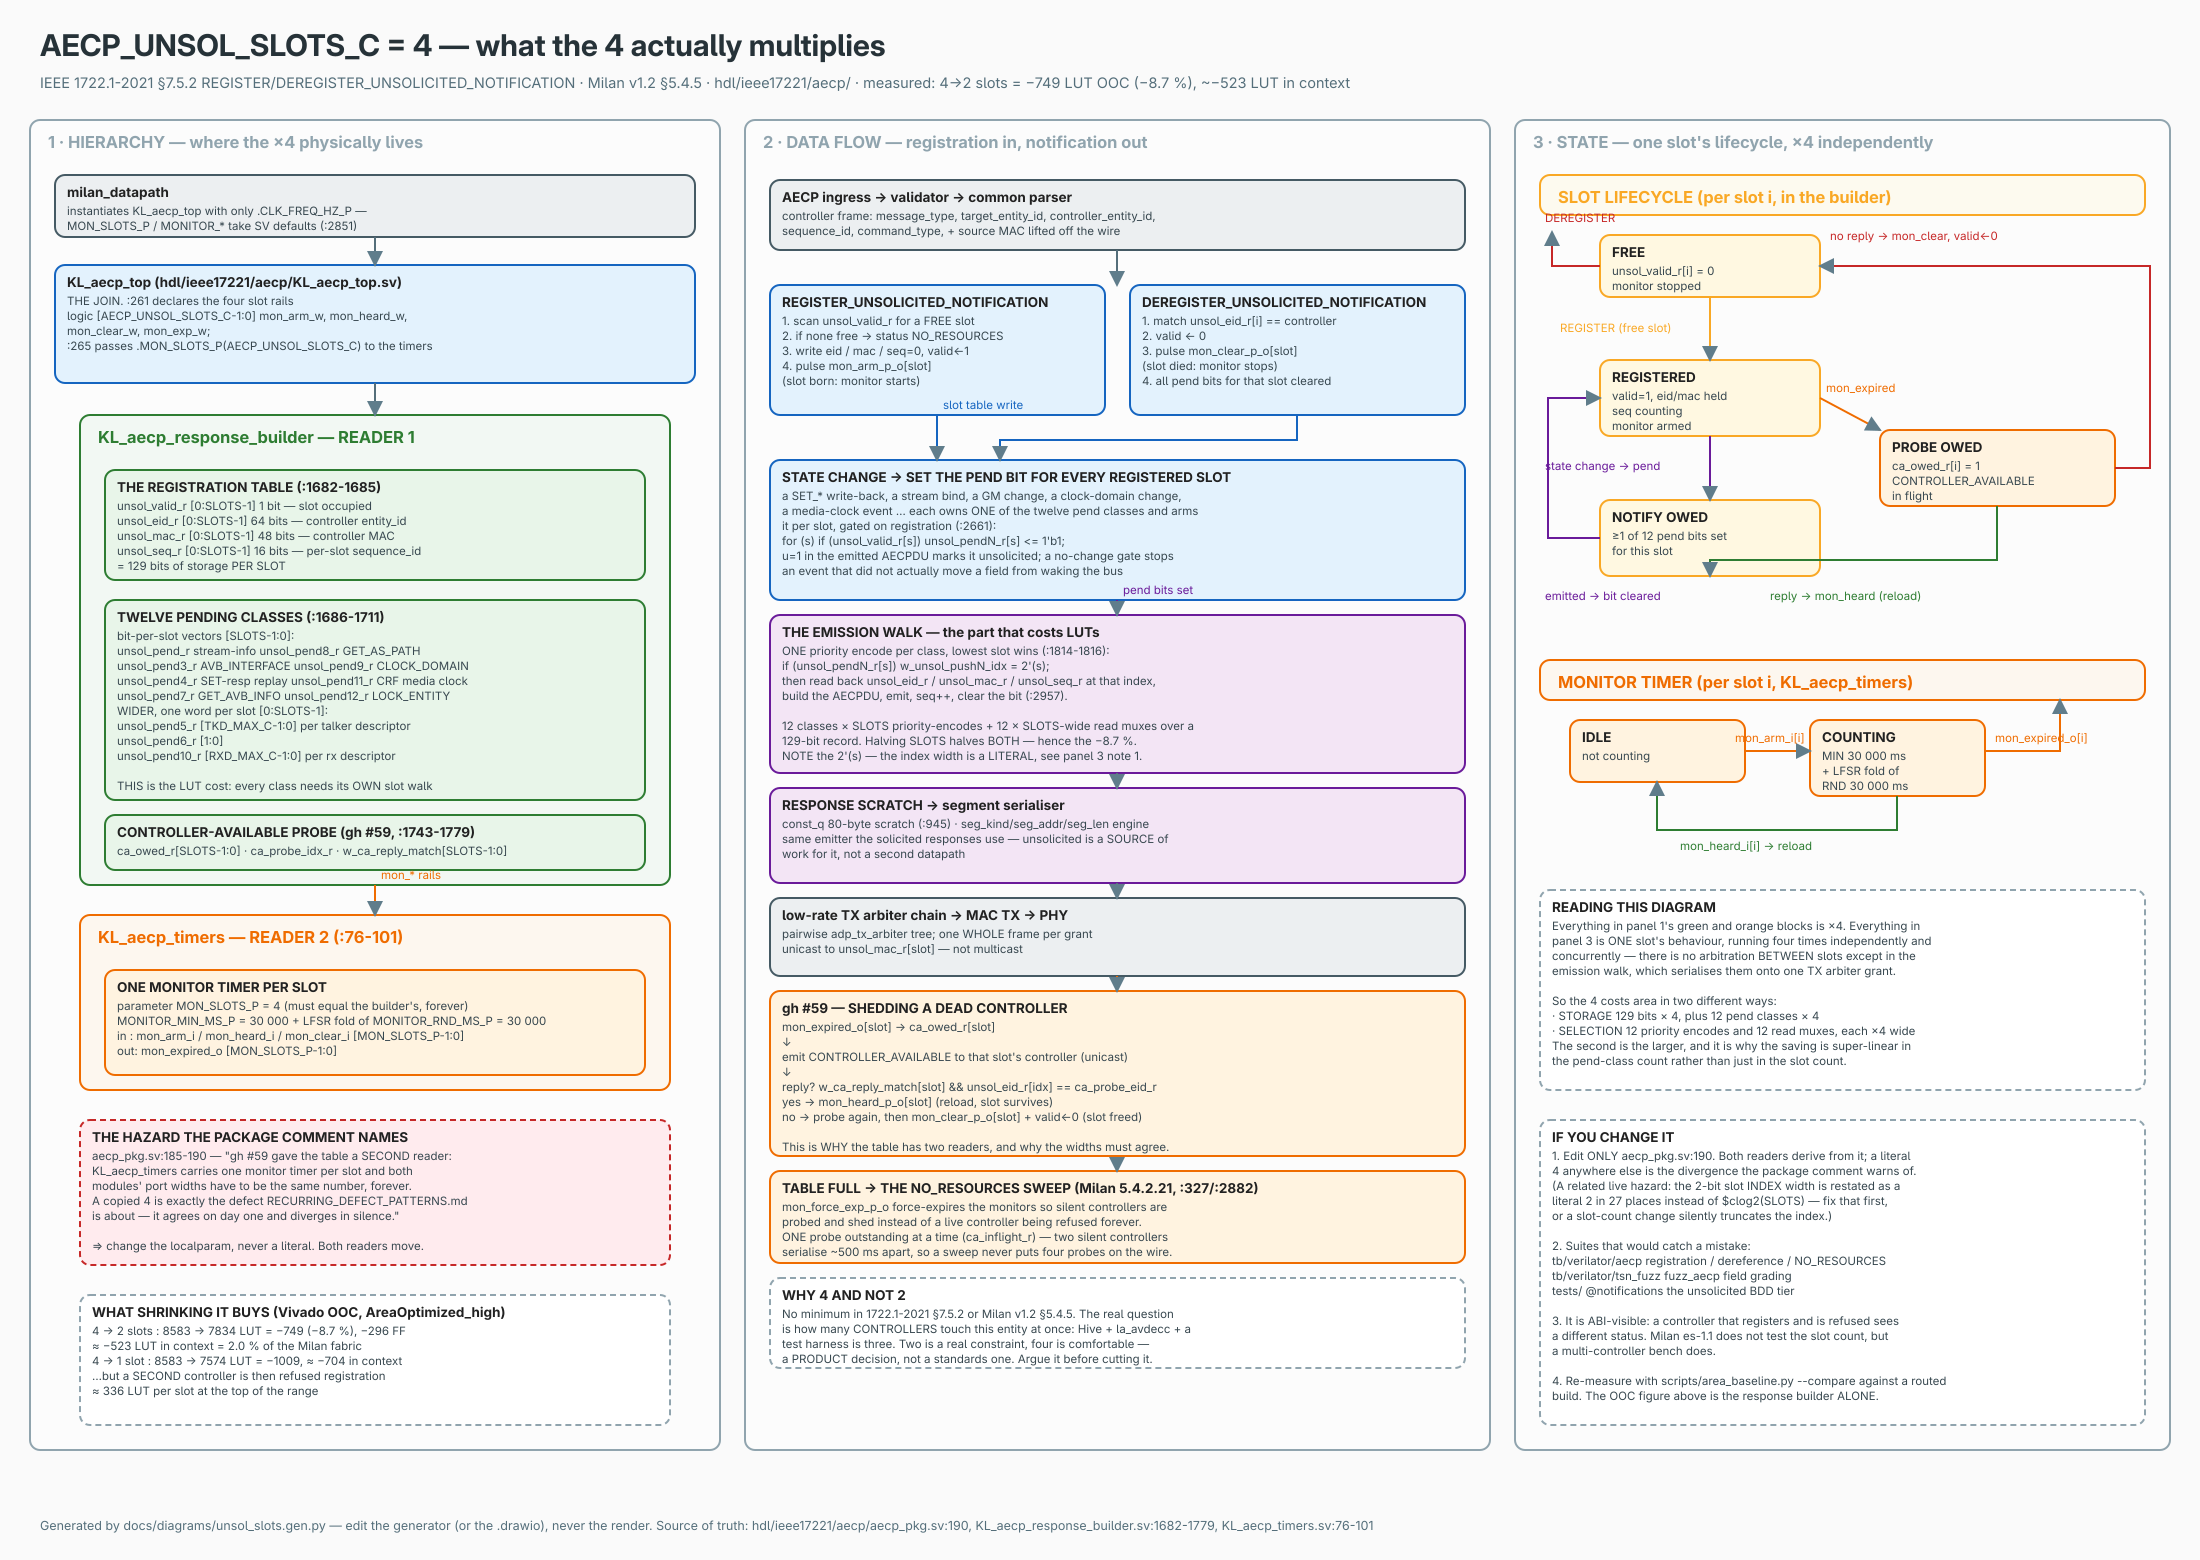
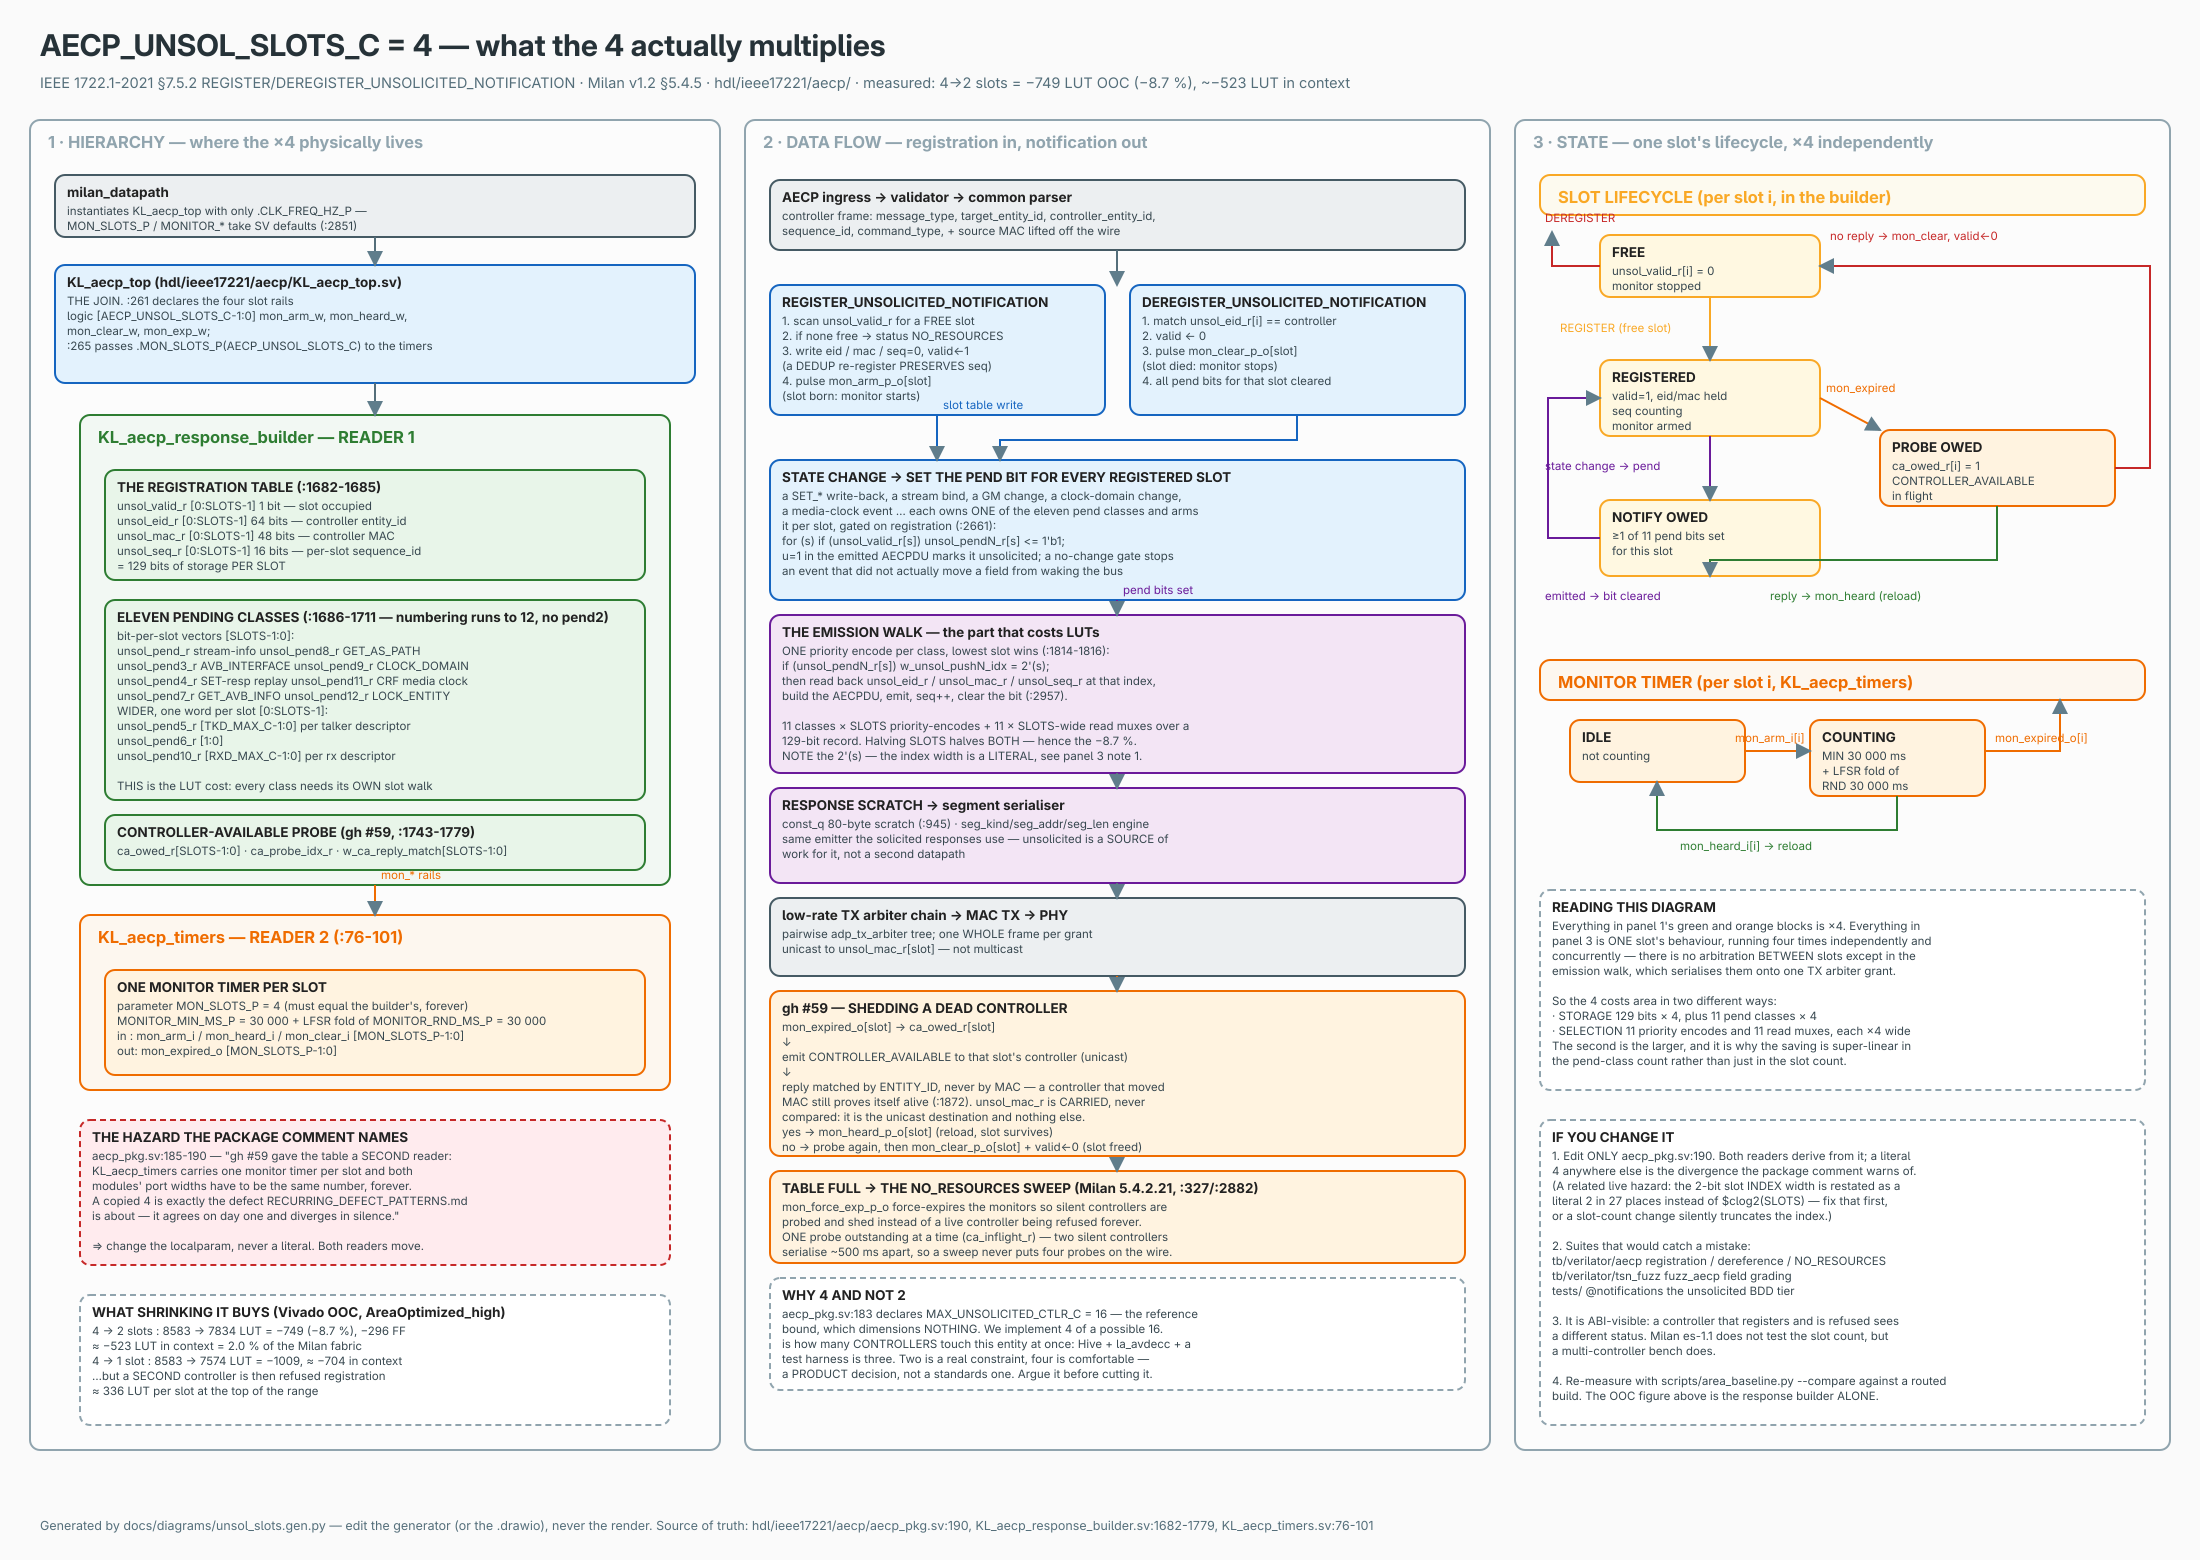
aecp: eleven pending classes, not twelve - the numbering runs to 12 but there is no pend2

diff --git a/docs/diagrams/unsol_slots.gen.py b/docs/diagrams/unsol_slots.gen.py
@@ -83,7 +83,7 @@ box("TBL", 105, 470, 540, 110, "THE REGISTRATION TABLE  (:1682-1685)",
      "unsol_seq_r   [0:SLOTS-1]       16 bits   — per-slot sequence_id",
      "                              = 129 bits of storage PER SLOT"], GREEN)
 
-box("PEND", 105, 600, 540, 200, "TWELVE PENDING CLASSES  (:1686-1711)",
+box("PEND", 105, 600, 540, 200, "ELEVEN PENDING CLASSES  (:1686-1711 — numbering runs to 12, no pend2)",
     ["bit-per-slot vectors  [SLOTS-1:0]:",
      "  unsol_pend_r    stream-info      unsol_pend8_r   GET_AS_PATH",
      "  unsol_pend3_r   AVB_INTERFACE    unsol_pend9_r   CLOCK_DOMAIN",
@@ -142,6 +142,7 @@ box("REG", 770, 285, 335, 130, "REGISTER_UNSOLICITED_NOTIFICATION",
     ["1. scan unsol_valid_r for a FREE slot",
      "2. if none free → status NO_RESOURCES",
      "3. write eid / mac / seq=0, valid←1",
+     "   (a DEDUP re-register PRESERVES seq)",
      "4. pulse mon_arm_p_o[slot]",
      "   (slot born: monitor starts)"], BLUE)
 
@@ -154,7 +155,7 @@ box("DEREG", 1130, 285, 335, 130, "DEREGISTER_UNSOLICITED_NOTIFICATION",
 
 box("TRIG", 770, 460, 695, 140, "STATE CHANGE  →  SET THE PEND BIT FOR EVERY REGISTERED SLOT",
     ["a SET_* write-back, a stream bind, a GM change, a clock-domain change,",
-     "a media-clock event …  each owns ONE of the twelve pend classes and arms",
+     "a media-clock event …  each owns ONE of the eleven pend classes and arms",
      "it per slot, gated on registration (:2661):",
      "      for (s) if (unsol_valid_r[s]) unsol_pendN_r[s] <= 1'b1;",
      "u=1 in the emitted AECPDU marks it unsolicited; a no-change gate stops",
@@ -166,7 +167,7 @@ box("WALK", 770, 615, 695, 158, "THE EMISSION WALK — the part that costs LUTs"
      "then read back unsol_eid_r / unsol_mac_r / unsol_seq_r at that index,",
      "build the AECPDU, emit, seq++, clear the bit (:2957).",
      "",
-     "12 classes × SLOTS priority-encodes + 12 × SLOTS-wide read muxes over a",
+     "11 classes × SLOTS priority-encodes + 11 × SLOTS-wide read muxes over a",
      "129-bit record.  Halving SLOTS halves BOTH — hence the −8.7 %.",
      "NOTE the 2'(s) — the index width is a LITERAL, see panel 3 note 1."], PURPLE)
 
@@ -184,7 +185,9 @@ box("PROBE", 770, 991, 695, 165, "gh #59 — SHEDDING A DEAD CONTROLLER",
      "     ↓",
      "emit CONTROLLER_AVAILABLE to that slot's controller (unicast)",
      "     ↓",
-     "reply?  w_ca_reply_match[slot] && unsol_eid_r[idx] == ca_probe_eid_r",
+     "reply matched by ENTITY_ID, never by MAC — a controller that moved",
+     "MAC still proves itself alive (:1872).  unsol_mac_r is CARRIED, never",
+     "compared: it is the unicast destination and nothing else.",
      "   yes → mon_heard_p_o[slot]  (reload, slot survives)",
      "   no  → probe again, then mon_clear_p_o[slot] + valid←0  (slot freed)",
      "",
@@ -196,8 +199,9 @@ box("SWEEP", 770, 1171, 695, 92, "TABLE FULL → THE NO_RESOURCES SWEEP  (Milan 
      "ONE probe outstanding at a time (ca_inflight_r) — two silent controllers",
      "serialise ~500 ms apart, so a sweep never puts four probes on the wire."], ORANGE)
 
-box("N2", 770, 1278, 695, 90, "WHY 4 AND NOT 2",
-    ["No minimum in 1722.1-2021 §7.5.2 or Milan v1.2 §5.4.5. The real question",
+box("N2", 770, 1278, 695, 112, "WHY 4 AND NOT 2",
+    ["aecp_pkg.sv:183 declares MAX_UNSOLICITED_CTLR_C = 16 — the reference",
+     "bound, which dimensions NOTHING. We implement 4 of a possible 16.",
      "is how many CONTROLLERS touch this entity at once: Hive + la_avdecc + a",
      "test harness is three. Two is a real constraint, four is comfortable —",
      "a PRODUCT decision, not a standards one. Argue it before cutting it."], WHITE, "note")
@@ -226,7 +230,7 @@ box("S_FREE", 1600, 235, 220, 62, "FREE",
 box("S_REG", 1600, 360, 220, 76, "REGISTERED",
     ["valid=1, eid/mac held", "seq counting", "monitor armed"], GOLD)
 box("S_PEND", 1600, 500, 220, 76, "NOTIFY OWED",
-    ["≥1 of 12 pend bits set", "for this slot"], GOLD)
+    ["≥1 of 11 pend bits set", "for this slot"], GOLD)
 box("S_PROBE", 1880, 430, 235, 76, "PROBE OWED",
     ["ca_owed_r[i] = 1", "CONTROLLER_AVAILABLE", "in flight"], ORANGE)
 
@@ -263,8 +267,8 @@ box("N3", 1540, 890, 605, 200, "READING THIS DIAGRAM",
      "emission walk, which serialises them onto one TX arbiter grant.",
      "",
      "So the 4 costs area in two different ways:",
-     "  · STORAGE   129 bits × 4, plus 12 pend classes × 4",
-     "  · SELECTION 12 priority encodes and 12 read muxes, each ×4 wide",
+     "  · STORAGE   129 bits × 4, plus 11 pend classes × 4",
+     "  · SELECTION 11 priority encodes and 11 read muxes, each ×4 wide",
      "The second is the larger, and it is why the saving is super-linear in",
      "the pend-class count rather than just in the slot count."], WHITE, "note")
 
